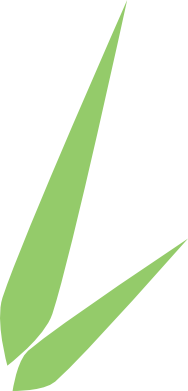
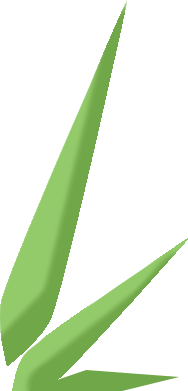
Bamboo leaf

diff --git a/withLuckAndWisdomProject/Object/Bamboo.cs b/withLuckAndWisdomProject/Object/Bamboo.cs
@@ -38,10 +38,12 @@ namespace withLuckAndWisdomProject.Object
         private BambooState _state;
         private Texture2D _joint1texture;
         private Texture2D _joint2texture;
+        private Texture2D _leaftexture;
         private float _height;
         private float _width;
 
         private List<Point> _joint;
+        private List<float> _leaf;
         private int _jointHeight;
         private Vector2 _pandaPosition;
 
@@ -55,7 +57,8 @@ namespace withLuckAndWisdomProject.Object
 
             _joint1texture = ResourceManager.BambooJoint1;
             _joint2texture = ResourceManager.BambooJoint2;
-            
+            _leaftexture = ResourceManager.BambooLeaf;
+
             _jointHeight = SET_HEIGHT_OF_JOINT;
             _width = SET_WIDTH_OF_BAMBOOS;
             
@@ -65,7 +68,15 @@ namespace withLuckAndWisdomProject.Object
             for (int i = 0; i < height ; i+= _jointHeight)
                 _joint.Add(new Point(0, i));
 
-            if(bambooType == BambooType.Pandle)
+            Random random = new Random();
+            _leaf = new List<float>();
+            for (int i = 0; i < _joint.Count; i ++)
+            {
+                _leaf.Add( MathHelper.ToRadians(i % 2 == 0 ? random.Next(-60, -30) : random.Next(30,60) ) );
+
+            }
+
+            if (bambooType == BambooType.Pandle)
             {
                 _pandaPosition = new Vector2(-_width /2  -ResourceManager.Panda.Width, -height/2);
             }
@@ -99,16 +110,23 @@ namespace withLuckAndWisdomProject.Object
             //spriteBatch.Draw(ResourceManager.Pencil, new Rectangle((int)_body.Position.X, (int)_body.Position.Y, (int)_width, (int)_height), null,
             //    Color.Lime, _body.Rotation, new Vector2(.5f, .5f), SpriteEffects.None, 0);
 
+            if(_type != BambooType.Friable)
+                for (int i = 0; i < _leaf.Count; i++)
+                    spriteBatch.Draw(_leaftexture, new Rectangle((int)Body.Position.X + _joint[i].X, (int)(Body.Position.Y - _height / 2 + _joint[i].Y), (int)_width, (int)_jointHeight), null,
+                          Color.LightGreen, _leaf[i], new Vector2(0, _leaftexture.Height), SpriteEffects.None, 0);
+
             if (_type == BambooType.Normal)
             {
                 // Draw basic bamboo
                 spriteBatch.Draw(ResourceManager.BambooShoot, new Rectangle((int)Body.Position.X , (int)(Body.Position.Y - _height / 2 - _jointHeight / 2), (int)_width, (int)_jointHeight), null,
                          Color.LightGreen, Body.Rotation, new Vector2(_joint1texture.Width / 2, _joint1texture.Height / 2), SpriteEffects.None, 0);
+                
+
                 for (int i = 0; i < _joint.Count; i++)
-                {
+               
                     spriteBatch.Draw(i % 2 == 0 ? _joint1texture : _joint2texture, new Rectangle((int)Body.Position.X + _joint[i].X, (int)(Body.Position.Y - _height/2 + _jointHeight/2  + _joint[i].Y), (int)_width, (int)_jointHeight), null,
                          i < 2 ? Color.LightGreen : Color.Green, Body.Rotation, new Vector2(_joint1texture.Width / 2, _joint1texture.Height / 2), SpriteEffects.None, 0);
-                }
+               
             }
 
             if (_type == BambooType.Friable)

diff --git a/withLuckAndWisdomProject/Manager/ResourceManager.cs b/withLuckAndWisdomProject/Manager/ResourceManager.cs
@@ -27,6 +27,7 @@ namespace withLuckAndWisdomProject.Screens
         public static Texture2D BambooShoot;
         public static Texture2D BambooJoint1;
         public static Texture2D BambooJoint2;
+        public static Texture2D BambooLeaf;
 
         public static Texture2D BackgroundMoutain;
         public static Texture2D BackgroundGame;
@@ -66,6 +67,7 @@ namespace withLuckAndWisdomProject.Screens
             BambooJoint1 = content.Load<Texture2D>("Images/bamboo-first");
             BambooJoint2 = content.Load<Texture2D>("Images/bamboo-second");
             BambooShoot = content.Load<Texture2D>("Images/bamboo-shoot");
+            BambooLeaf = content.Load<Texture2D>("Images/bamboo-leaf");
 
             BackBtn = content.Load<Texture2D>("Controls/BackButtonWhite");
             checkBoxEmpty = content.Load<Texture2D>("Controls/CheckboxEmpty");
